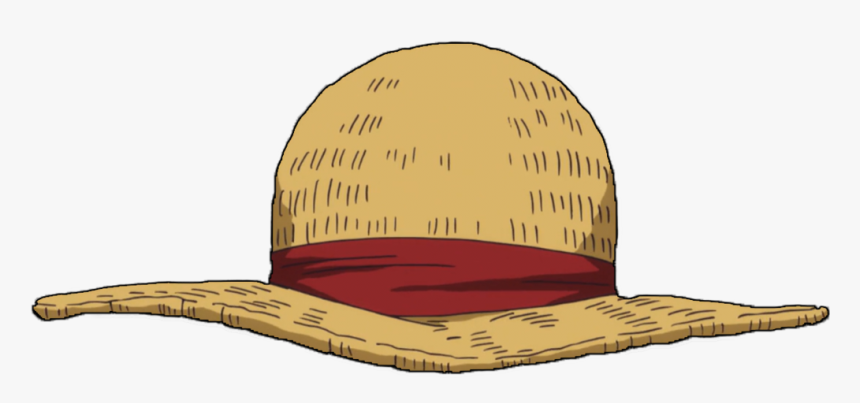
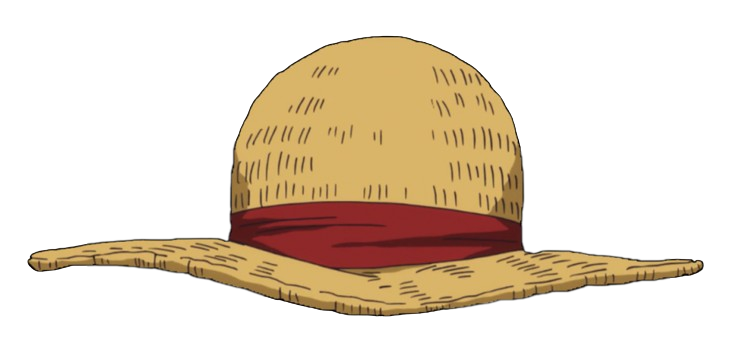
update hat position

diff --git a/final/main.js b/final/main.js
@@ -41,18 +41,40 @@ circleWrapObj.addEventListener("click", () => {
 const hatObj = document.querySelector("#hat");
 const myTextObj = document.querySelector(".ticket");
 
-hatObj.addEventListener("mouseenter", () => {
-	myTextObj.classList.add("ticketVisible");
-});
-hatObj.addEventListener("mouseleave", () => {
-	myTextObj.classList.remove("ticketVisible");
-});
-
+// hatObj.addEventListener("mouseover", () => {
+// 	myTextObj.classList.add("ticketVisible");
+// });
+// hatObj.addEventListener("mouseout", () => {
+// 	myTextObj.classList.remove("ticketVisible");
+// });
 
 // //ON CLICK open new link tabs
-// const openInNewTab = (url) => {
-// 	window.open(url, "_self");
-//   }
+const openInNewTab = (url) => {
+	window.open(url, "_blank");
+  }
+
+// hatObj.addEventListener("click", () => {
+// 	alert("adf");
+// 	openInNewTab("https://www.amctheatres.com/movies/one-piece-film-red-71142");
+//   });
+
+  hatObj.addEventListener("mouseover", myFunction);
+  hatObj.addEventListener("click", mySecondFunction);
+  hatObj.addEventListener("mouseout", myThirdFunction);
+  
+  function myFunction() {
+	myTextObj.classList.add("ticketVisible");
+  }
+  
+  function mySecondFunction() {
+	// alert("adf");
+	openInNewTab("https://www.amctheatres.com/movies/one-piece-film-red-71142");
+  }
+  
+  function myThirdFunction() {
+	myTextObj.classList.remove("ticketVisible");
+  }
+
   
 //   const hat = document.querySelector("#hat");
 //   hat.addEventListener("click", () => {

diff --git a/final/styles.css b/final/styles.css
@@ -4,6 +4,11 @@
     animation: shake 1s infinite;
 }
 
+img{
+    width: 200px;
+    height: 90px;
+}
+
 @keyframes shake {
     0% {
         transform: skewX(-1deg);
@@ -29,8 +34,7 @@
         transform: skewX(0deg);
     }
 }
-
-  
+ 
 /* location svg */
 /* #locationSvg {
     cursor: pointer;
@@ -332,11 +336,6 @@ object {
         height: 60px;
     }
 
-    #hat {
-        width: 200px;
-        height: 56px;
-    }
-
     .luffy {
         width: 271px;
         height: 574px;
@@ -374,8 +373,8 @@ object {
         text-align: center;
     }
 
-    #hat {
-        width: 150px;
+    img {
+        width: 200px;
         height: 5%;
     }
 
@@ -481,7 +480,6 @@ object {
     }
 
     .ticketVisible {
-        /* visibility: visible; */
         opacity: 1;
     }
 
@@ -491,20 +489,19 @@ object {
         left: 28%;
     }
 
-    #hat {
+    img {
         cursor: pointer;
-        position: absolute;
         left: 40%;
         top: 52%;
-        width: 230px;
-        height: 230px;
+    }
+
+    #hat {
         z-index: 2;
         transition: transform 0.5s ease-in-out;
         transform: rotate(0deg);
     }
 
     #hat:hover {
-        
         transform: rotate(-30deg);
     }
 }

diff --git a/final/index.html b/final/index.html
@@ -68,10 +68,8 @@
         </div>
 
         <div class="hatTicket">
-            <div class="column">
-                <object id="hat" data="images/hat.svg" type="image/svg+xml">
-                    <img src="images/hat.png" alt="hat">
-                </object>
+            <div class="column" id="hat">
+                <img src="images/hat.png" alt="hat">
             </div>
         </div>
 
